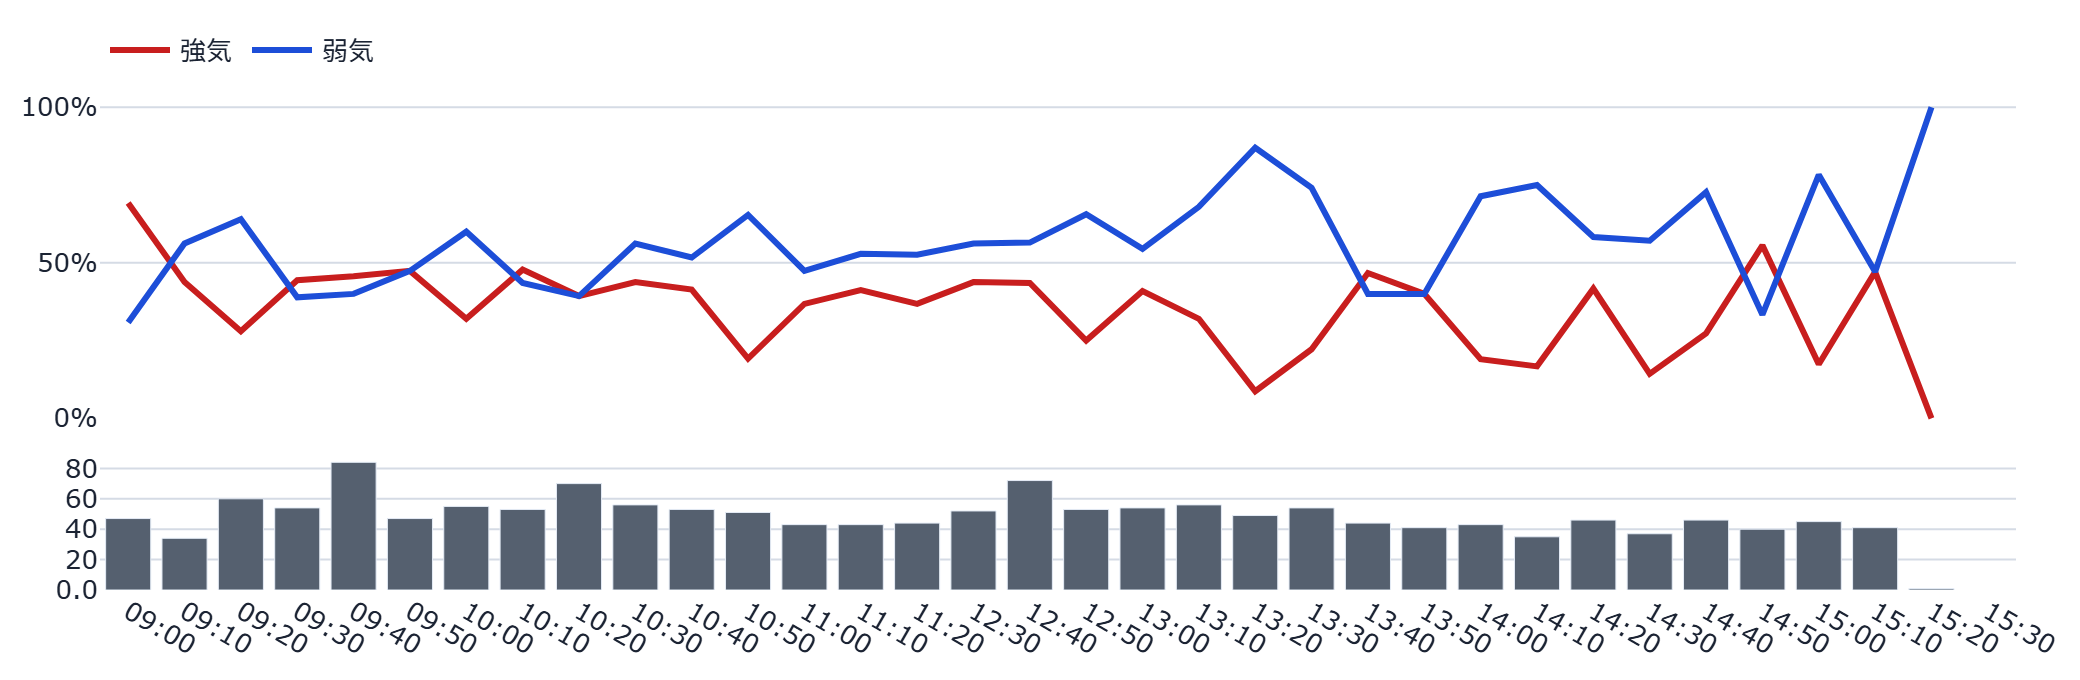
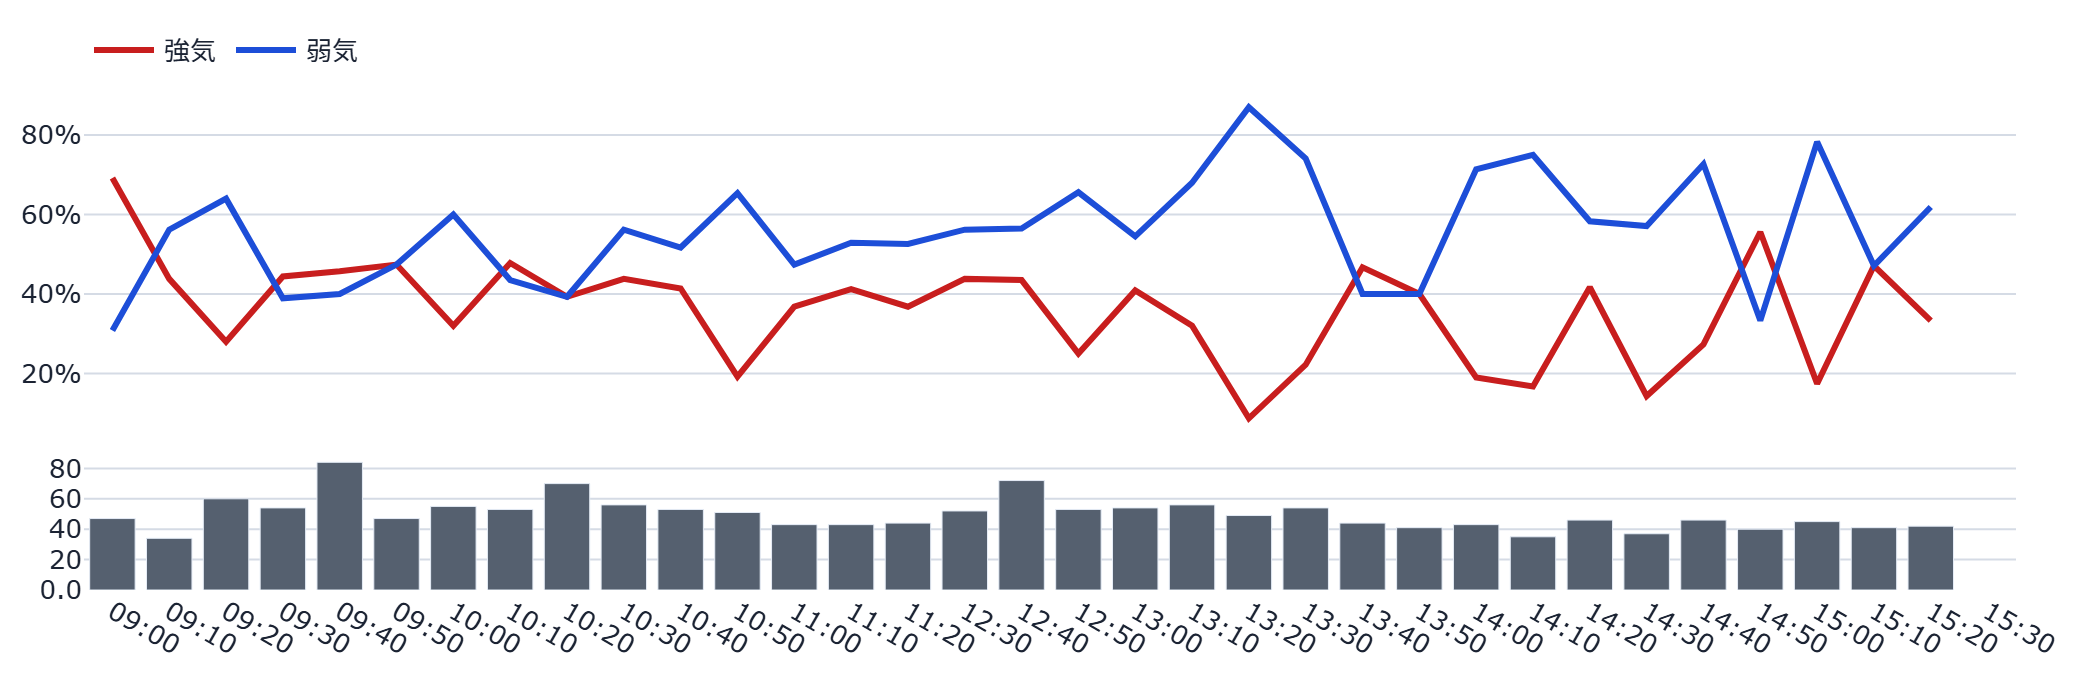
auto: refresh static dashboard (2026-11-08 15:40:58 JST)

diff --git a/docs/index.html b/docs/index.html
@@ -144,10 +144,10 @@
         <span class="price">8,511円</span>
         <span class="chg" style="color:#8B94A3">—</span>
       </div>
-      <p class="caption">更新時刻: 2026-11-08T15:21:41（データは1分間隔で自動生成され、このページも
+      <p class="caption">更新時刻: 2026-11-08T15:31:13（データは1分間隔で自動生成され、このページも
       60秒毎に自動再読み込みされます）</p>
       
-      <p id='visit-count-badge' class='caption'>👀 累計閲覧数: 12,796</p>
+      <p id='visit-count-badge' class='caption'>👀 累計閲覧数: 12,798</p>
       <p id='like-button-wrap' class='caption'><button id='like-button' type='button' style='cursor:pointer;border:1px solid var(--border);border-radius:6px;padding:1px 10px;margin-right:6px;background:var(--panel);color:var(--text);font-size:1em;vertical-align:middle'>👍</button><span id='like-count-label'>このダッシュボードが役に立ったら押してください（累計 4 いいね）</span></p>
 
       <!-- ★2026-09-08追加(ユーザー指示「AI考察はトップに移動」): モニタ
@@ -155,9 +155,9 @@
            常時最上部に表示する。 -->
       <h2>🤖 AI考察</h2>
       <div class='panel' id='ai-schedule'><h3>🗓 AI考察の予定</h3><ul><li>平日の立会日に、寄り前 08:50／寄り直後 09:10／前場引け前 11:30／大引け後 15:45 の4時点で考察を更新します（考察はClaude(AI)が書きます）。</li><li>土日祝などの休場日は考察を書きません。</li><li>時点の間は、数値のみを約10分ごとに更新します（文章は次の時点まで更新されません）。</li><li>次の予定: 11-09 08:50（寄り前）／直近の更新: 11-06 17:31（自動生成）</li></ul></div>
-      <div class='panel' id='numeric-summary'><h3>📊 数値要約｜15:21 更新</h3><ul><li>株価: 8,511円</li><li>掲示板: 強気 35.0%／弱気 56.9%／中立 8.1%・投稿 3,151件（約197件/時）</li><li>シグナル: 発火＝阿鼻叫喚(セリクラ)(42.5)・話題枯れ(-1.39)／警戒＝他銘柄混入率(0.1)・暴落煽り語彙(4)／平常＝灼熱メーター(過熱)(5)・そう思う大量票(19)・イナゴ語彙(euphoria)(2)・ネームド集中(0.06)ほか</li><li>変化点: 前回の数値要約から大きな変化なし</li></ul><p class='caption'>強気・弱気は機械判定（辞書＋軽量モデル）の値です。日単位の向きはLM判定と近く（相関0.8台）、時間単位は粗い点に注意してください。</p></div>
+      <div class='panel' id='numeric-summary'><h3>📊 数値要約｜15:31 更新</h3><ul><li>株価: 8,511円</li><li>掲示板: 強気 35.0%／弱気 56.9%／中立 8.1%・投稿 3,192件（約200件/時）</li><li>シグナル: 発火＝阿鼻叫喚(セリクラ)(42.5)・話題枯れ(-1.39)／警戒＝他銘柄混入率(0.1)・暴落煽り語彙(4)／平常＝灼熱メーター(過熱)(5)・そう思う大量票(19)・イナゴ語彙(euphoria)(2)・ネームド集中(0.06)ほか</li><li>変化点: 前回の数値要約から大きな変化なし</li></ul><p class='caption'>強気・弱気は機械判定（辞書＋軽量モデル）の値です。日単位の向きはLM判定と近く（相関0.8台）、時間単位は粗い点に注意してください。</p></div>
       
-      <div class='metric-row'><div class='metric-card'><div class='metric-label'>株価</div><div class='metric-value'>8,511円</div><div class='metric-delta'>+0円</div></div><div class='metric-card'><div class='metric-label'>強気比率</div><div class='metric-value'>35.0%</div><div class='metric-delta'>+0.1pt</div></div><div class='metric-card'><div class='metric-label'>弱気比率</div><div class='metric-value'>56.9%</div><div class='metric-delta'>-0.1pt</div></div></div><p class='caption'>前回集計(2026-11-08T15:11:18)との比較</p>
+      <div class='metric-row'><div class='metric-card'><div class='metric-label'>株価</div><div class='metric-value'>8,511円</div><div class='metric-delta'>+0円</div></div><div class='metric-card'><div class='metric-label'>強気比率</div><div class='metric-value'>35.0%</div><div class='metric-delta'>+0.0pt</div></div><div class='metric-card'><div class='metric-label'>弱気比率</div><div class='metric-value'>56.9%</div><div class='metric-delta'>+0.0pt</div></div></div><p class='caption'>前回集計(2026-11-08T15:21:41)との比較</p>
       <div class='ai-box'>※無料公開データを機械的に集計した観測情報であり、投資助言・売買推奨ではありません。（11-06 大引け後の整理・17:31時点）<br>
 <br>
 ■ 本日の285A：寄りが遅れた日<br>
@@ -208,7 +208,7 @@
             <h3>ボラ・レジーム帯</h3>
             <figure><img src='images/regime_band.png' alt='ボラ・レジーム帯' loading='lazy'></figure>
             <p class='caption'>現在レジーム: 較正中　(BVP=0.607)</p>
-            <div class='metric-row'><div class='metric-card'><div class='metric-label'>PTS（11/07 01:58）</div><div class='metric-value'>8,725円</div><div class='metric-delta' style='color:#C81E1E'>+2.51%</div></div><div class='metric-card'><div class='metric-label'>米国ADR（11/07 05:59）</div><div class='metric-value'>8,653円</div><div class='metric-delta' style='color:#C81E1E'>+1.67%</div></div><div class='metric-card'><div class='metric-label'>DEX（11/08 15:20）</div><div class='metric-value'>8,650円</div><div class='metric-delta' style='color:#C81E1E'>+1.63%</div></div></div><p class='caption'>PTS=東証取引時間外の私設取引システム／ADR=米国預託証券／DEX=分散型取引所(Hyperliquid)の24時間取引・円換算(東証終値比)。翌営業日の値動きの参考情報です(それ自体が売買シグナルではありません)。</p>
+            <div class='metric-row'><div class='metric-card'><div class='metric-label'>PTS（11/07 01:58）</div><div class='metric-value'>8,725円</div><div class='metric-delta' style='color:#C81E1E'>+2.51%</div></div><div class='metric-card'><div class='metric-label'>米国ADR（11/07 05:59）</div><div class='metric-value'>8,653円</div><div class='metric-delta' style='color:#C81E1E'>+1.67%</div></div><div class='metric-card'><div class='metric-label'>DEX（11/08 15:30）</div><div class='metric-value'>8,646円</div><div class='metric-delta' style='color:#C81E1E'>+1.59%</div></div></div><p class='caption'>PTS=東証取引時間外の私設取引システム／ADR=米国預託証券／DEX=分散型取引所(Hyperliquid)の24時間取引・円換算(東証終値比)。翌営業日の値動きの参考情報です(それ自体が売買シグナルではありません)。</p>
           </div>
         </div>
 
@@ -288,7 +288,7 @@
 
       <hr style="border:none;border-top:1px solid var(--border);margin:2rem 0 1rem">
       <p class="caption">⚠ 本情報は掲示板投稿を統計的に集計したものであり、投資助言ではありません。個別の投稿内容は含まれていません。研究・エンタメ用途です。</p>
-      <footer>生成: generate_static_dashboard.py（2026-11-08T15:30:52） /
+      <footer>生成: generate_static_dashboard.py（2026-11-08T15:40:52） /
       画像バックエンド: plotly+kaleido</footer>
     </div>
     <script>(function(){var url="https://script.google.com/macros/s/AKfycbwgSSGQ2n56ohmIYKlNDA1Xe3D8hd3GJbD0U90L4DGtXdb8pqrPokNMHJWjvN1__7bE/exec";var KEY='bbs_visit_counted';var already=sessionStorage.getItem(KEY);var action=already?'read':'hit';var ctrl=(typeof AbortController!=='undefined')?new AbortController():null;var timer=ctrl?setTimeout(function(){ctrl.abort();},5000):null;fetch(url+'?action='+action,{signal:ctrl?ctrl.signal:undefined}).then(function(r){if(timer)clearTimeout(timer);return r.json();}).then(function(data){if(!already)sessionStorage.setItem(KEY,'1');if(data&&typeof data.count==='number'){var el=document.getElementById('visit-count-badge');if(el){el.textContent='\u{1F440} \u7d2f\u8a08\u95b2\u89a7\u6570: '+data.count.toLocaleString();el.style.display='';}}}).catch(function(e){if(timer)clearTimeout(timer);console.warn('visit counter fetch failed (fail-soft):',e);});})();</script><script>(function(){var url="https://script.google.com/macros/s/AKfycbwgSSGQ2n56ohmIYKlNDA1Xe3D8hd3GJbD0U90L4DGtXdb8pqrPokNMHJWjvN1__7bE/exec";var KEY='bbs_liked';var btn=document.getElementById('like-button');var label=document.getElementById('like-count-label');if(!btn||!label)return;function renderLiked(count){btn.disabled=true;btn.style.cursor='default';btn.style.opacity='0.6';btn.textContent='\u2705';label.textContent="\u3044\u3044\u306d\u3057\u307e\u3057\u305f\uff01"+(typeof count==='number'?"\uff08\u7d2f\u8a08 "+count.toLocaleString()+" \u3044\u3044\u306d\uff09":'');}if(localStorage.getItem(KEY)){renderLiked(null);}btn.addEventListener('click',function(){if(localStorage.getItem(KEY))return;btn.disabled=true;var ctrl=(typeof AbortController!=='undefined')?new AbortController():null;var timer=ctrl?setTimeout(function(){ctrl.abort();},5000):null;fetch(url+'?action=like_hit',{signal:ctrl?ctrl.signal:undefined}).then(function(r){if(timer)clearTimeout(timer);return r.json();}).then(function(data){localStorage.setItem(KEY,'1');renderLiked(data&&typeof data.count==='number'?data.count:null);}).catch(function(e){if(timer)clearTimeout(timer);btn.disabled=false;console.warn('like button fetch failed (fail-soft):',e);});});})();</script><script>(function(){var DEFAULT_TAB='overview';function activate(tabName){var buttons=document.querySelectorAll('.tab-bar .tab-btn');var panels=document.querySelectorAll('[data-tab-panel]');if(!buttons.length||!panels.length)return;var matched=false;panels.forEach(function(p){var on=p.getAttribute('data-tab-panel')===tabName;if(on)matched=true;p.classList.toggle('tab-hidden',!on);});if(!matched){panels.forEach(function(p){p.classList.toggle('tab-hidden',p.getAttribute('data-tab-panel')!==DEFAULT_TAB);});tabName=DEFAULT_TAB;}buttons.forEach(function(b){var on=b.getAttribute('data-tab')===tabName;b.classList.toggle('active',on);b.setAttribute('aria-selected',on?'true':'false');});}document.addEventListener('DOMContentLoaded',function(){var bar=document.getElementById('tabBar');if(!bar)return;bar.addEventListener('click',function(e){var btn=e.target.closest('.tab-btn');if(!btn)return;activate(btn.getAttribute('data-tab'));});activate(DEFAULT_TAB);});})();</script></body></html>
